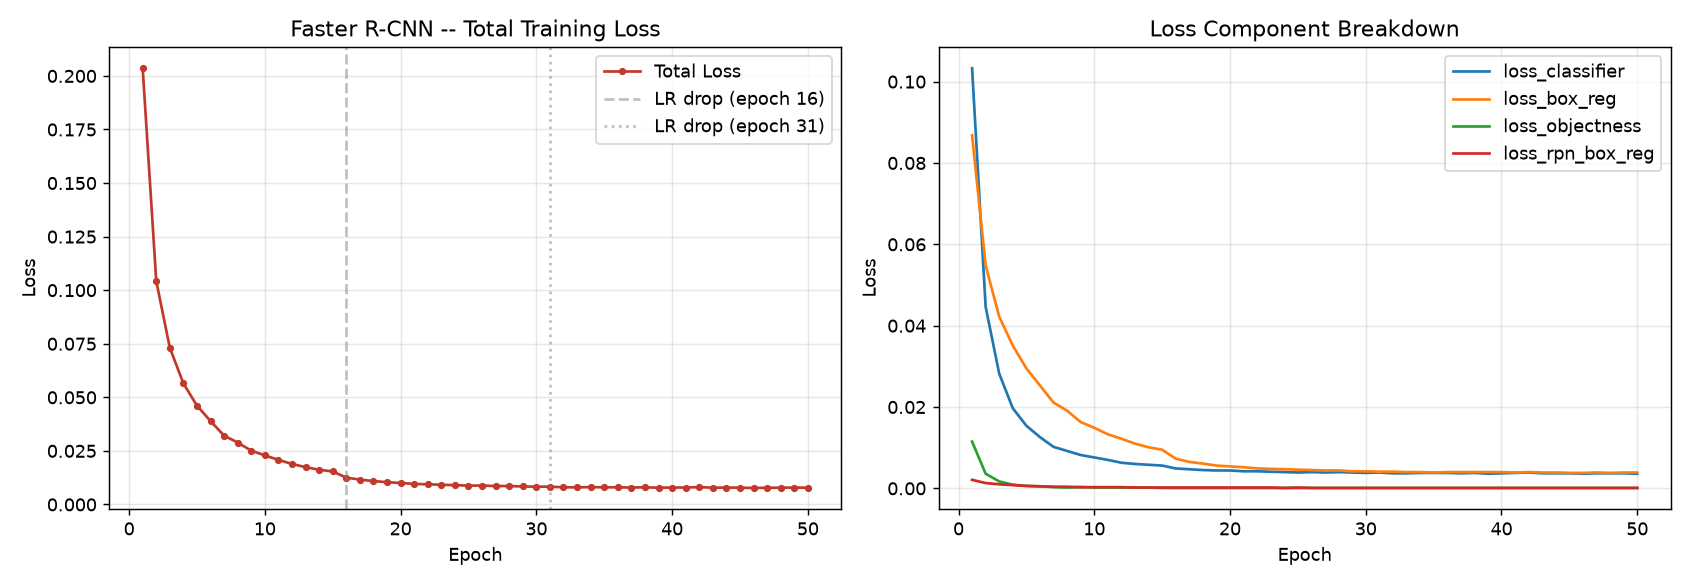
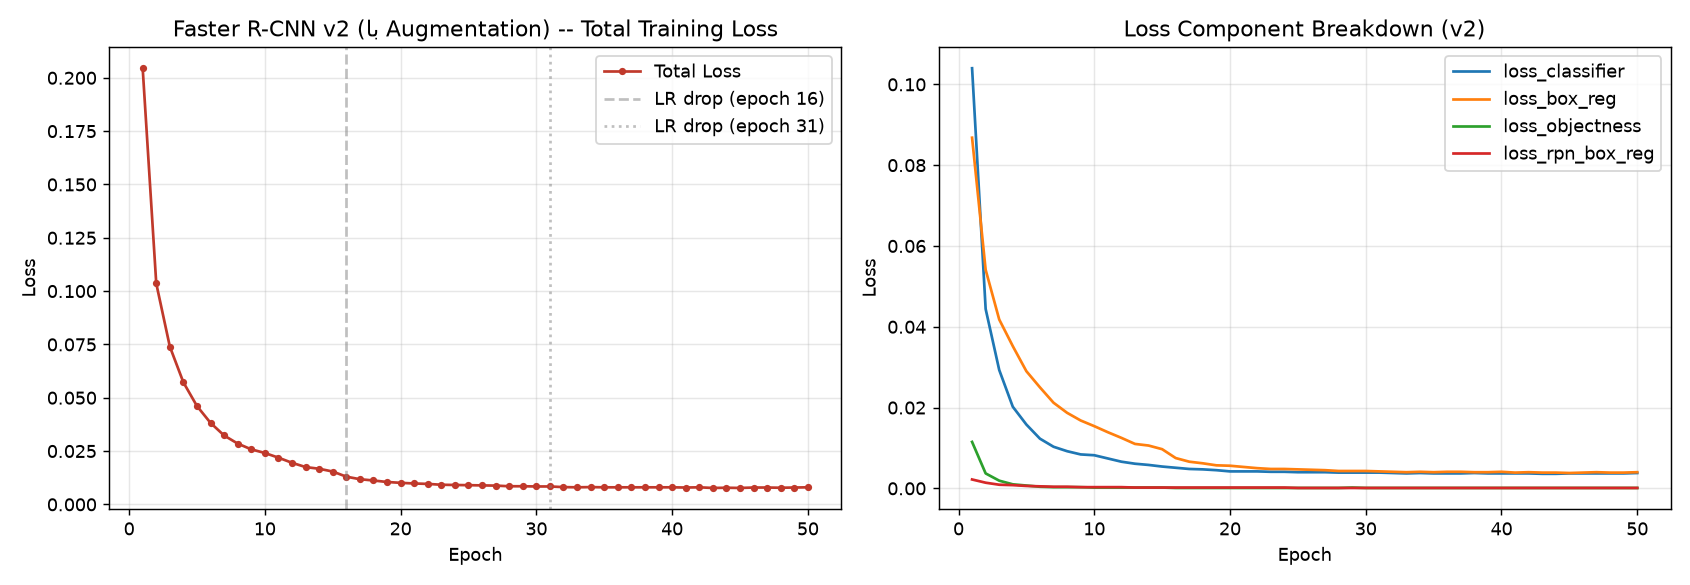
Brain tumor detector corrected

diff --git a/src/models/train_faster_rcnn.py b/src/models/train_faster_rcnn.py
@@ -21,15 +21,19 @@ from utils.seed import set_seed  # noqa: E402
 
 
 def get_dataloaders(data_root: Path, batch_size: int):
+    from models.augmentation import get_transform
+
     # توجه: images_dir به پوشهی خودِ symlink شده در yolo_detection اشاره میکند چون تصاویر آنجا
     # از قبل symlink شدهاند؛ میتوانستیم مستقیم از /kaggle/input هم بخوانیم، اما این مسیر یکپارچهتر است.
     train_ds = CocoDetectionDataset(
         images_dir=str(data_root / "yolo_detection" / "train" / "images"),
         coco_json_path=str(data_root / "coco_format" / "train.json"),
+        transforms=get_transform(train=True),   # اصلاح باگ Phase 3: قبلاً None بود (بدون augmentation)
     )
     val_ds = CocoDetectionDataset(
         images_dir=str(data_root / "yolo_detection" / "valid" / "images"),
         coco_json_path=str(data_root / "coco_format" / "valid.json"),
+        transforms=get_transform(train=False),  # eval/val همیشه بدون augmentation
     )
 
     train_loader = DataLoader(train_ds, batch_size=batch_size, shuffle=True,
@@ -87,6 +91,23 @@ def main(args):
     log_path = out_dir / "logs" / "faster_rcnn_train_log.txt"
     log_path.parent.mkdir(parents=True, exist_ok=True)
     resume_path = ckpt_dir / "training_state.pt"
+
+    # --- خودتاییدی صریح: تا دیگر هرگز ابهام «آیا augmentation واقعا فعال بود؟» پیش نیاید ---
+    # این پیام هم در stdout و هم در همان فایل لاگ آموزش نوشته میشود (قابل رجوع دائمی).
+    from models.augmentation import get_transform
+    _probe = get_transform(train=True)
+    verification_msg = (
+        "\n" + "=" * 70 +
+        f"\n[AUGMENTATION CHECK] hflip_prob={_probe.hflip_prob} | "
+        f"brightness={_probe.brightness} | contrast={_probe.contrast}\n"
+        f"[AUGMENTATION CHECK] این پیام باید hflip_prob=0.5 نشان دهد؛ اگر 0.0 است یعنی\n"
+        f"کد قدیمی (بدون augmentation) در حال اجراست -- سریعاً متوقف و git pull کنید!\n"
+        + "=" * 70 + "\n"
+    )
+    print(verification_msg)
+    with open(log_path, "a") as f:
+        f.write(verification_msg)
+    assert _probe.hflip_prob == 0.5, "خطای بحرانی: augmentation فعال نیست! کد قدیمی در حال اجراست."
 
     train_loader, val_loader = get_dataloaders(data_root, args.batch_size)
     print(f"تعداد batch های train: {len(train_loader)} | val: {len(val_loader)}")

diff --git a/src/models/train_yolo11.py b/src/models/train_yolo11.py
@@ -41,6 +41,16 @@ FROZEN_TRAIN_ARGS = dict(
 
 def main(args):
     set_seed(42)
+
+    # --- خودتاییدی صریح (همان الگوی train_faster_rcnn.py) ---
+    print("\n" + "=" * 70)
+    print(f"[AUGMENTATION CHECK] fliplr={FROZEN_TRAIN_ARGS['fliplr']} | hsv_v={FROZEN_TRAIN_ARGS['hsv_v']} | "
+          f"mosaic={FROZEN_TRAIN_ARGS['mosaic']} | optimizer={FROZEN_TRAIN_ARGS['optimizer']} | "
+          f"lr0={FROZEN_TRAIN_ARGS['lr0']}")
+    print("[AUGMENTATION CHECK] این باید fliplr=0.5 نشان دهد (منطبق با Faster R-CNN v2)")
+    print("=" * 70 + "\n")
+    assert FROZEN_TRAIN_ARGS["fliplr"] == 0.5, "خطای بحرانی: augmentation منطبق نیست!"
+
     from ultralytics import YOLO
 
     model = YOLO(args.model)

diff --git a/reports/faster_rcnn_performance_report.md b/reports/faster_rcnn_performance_report.md
@@ -1,62 +1,34 @@
 # گزارش عملکرد پایه — Faster R-CNN
-تاریخ: 2026-08-10 | Phase 3.6 Deliverable
+تاریخ بهروزرسانی: 2026-08-13 | Phase 3.6 Deliverable (⚠ در انتظار بازآموزی نهایی)
 
-## معماری و تنظیمات
-- `torchvision.models.detection.fasterrcnn_resnet50_fpn_v2`، وزن اولیه ازپیشآموزشدیده COCO
-- بازآموزی سر طبقهبندی برای ۴ کلاس (۳ تومور + background)
-- Optimizer: SGD(lr=0.005, momentum=0.9, weight_decay=0.0005) | StepLR(step=15, gamma=0.1)
-- Batch size=8 | Epochs=50 | Image size=640 | Seed=42
+## ⚠ وضعیت فعلی: نیازمند یک اجرای دیگر
+دو اجرای قبلی (نامگذاریشده «v1» و «v2») **هر دو بدون augmentation** بودند — کشف شد در 2026-08-13
+با بررسی مستقیم فایل سورس در Output نوتبوک Kaggle. علت: عدم sync صحیح بین push محلی و pull روی Kaggle
+قبل از اجرای دوم. جزئیات کامل و اصلاحیه در `configs/project_config.yaml -> results.faster_rcnn`.
 
-## زمان و همگرایی آموزش
-- **۱۰.۰۴ ساعت** (میانگین ۷۲۳ ثانیه/epoch) روی GPU کگل، از طریق Save & Run All (Commit) — بدون نیاز به resume
-- Total training loss: 0.2036 → 0.0078 (کاهش ۹۶.۲٪)، منحنی نرم و همگرا، بدون نوسان یا واگرایی
-- نمودار: `reports/figures/faster_rcnn_loss_curve.png`
+**کد اکنون یک `assert` صریح در ابتدای اجرا دارد که اگر augmentation فعال نباشد، در همان ثانیهی اول
+crash میکند** — این تضمین میکند اجرای بعدی دیگر این اشتباه را نمیتواند بیسروصدا تکرار کند.
 
-## منحنی mAP/Recall روی Validation (بازسازیشده از ۱۰ چکپوینت ذخیرهشده)
-> توجه روششناسی: چون سند اصلی «Training curves (loss, precision, recall, mAP)» میخواهد ولی لاگ اولیهی
-> آموزش فقط train loss داشت، این منحنی با ارزیابی مجدد ۱۰ چکپوینت ذخیرهشده (هر ۵ epoch) روی validation set
-> بازسازی شد — بدون نیاز به آموزش مجدد. در فاز ۴، YOLO11 این مشکل را از ابتدا نخواهد داشت (توضیح در پایین سند).
-> "Precision/Recall" در اینجا معادل استاندارد COCO یعنی mAP (Average Precision) و AR (Average Recall) گزارش شدهاند.
+## دادهی موجود (فقط برای مستندسازی، نه نتیجهی نهایی)
+دو اجرای مستقل بدون augmentation، مفید بهعنوان تخمین بازهی واریانس طبیعی run-to-run روی این پایپلاین:
 
-نمودار: `reports/figures/faster_rcnn_map_curve.png`
+| معیار (Test set) | اجرا ۱ | اجرا ۲ | اختلاف (نویز طبیعی) |
+|---|---|---|---|
+| mAP@0.5:0.95 | 0.593 | 0.598 | ~0.5pp |
+| mAP@0.5 | 0.818 | 0.814 | ~0.3pp |
+| mAP@0.75 | 0.673 | 0.695 | ~2.2pp |
+| AR@100 | 0.670 | 0.675 | ~0.5pp |
 
-| Epoch | mAP@0.5:0.95 | mAP@0.5 | mAP@0.75 | AR@100 |
-|---|---|---|---|---|
-| 5  | 0.585 | 0.841 | 0.658 | 0.684 |
-| 10 | 0.590 | 0.840 | 0.680 | 0.671 |
-| 15 | 0.599 | 0.833 | 0.677 | 0.674 |
-| 20 | 0.606 | 0.836 | 0.682 | 0.679 |
-| 25 | 0.605 | 0.836 | 0.683 | 0.679 |
-| 30 | 0.604 | 0.837 | 0.687 | 0.679 |
-| 35 | 0.606 | 0.835 | 0.696 | 0.680 |
-| 40 | 0.605 | 0.837 | 0.678 | 0.678 |
-| 45 | 0.607 | 0.837 | 0.683 | 0.680 |
-| **50** | **0.609** | **0.841** | **0.691** | **0.683** |
+نکتهی مهم روششناسی: این بازه (تا ~۲ واحد درصد در mAP@0.75) نشان میدهد بدون کنترل دقیق seed/hardware،
+تفاوتهای کوچک بین اجراها میتواند صرفاً نویز باشد — نه لزوماً اثر یک تغییر واقعی. این درسی است که در
+تفسیر نتایج Phase 4/5 هم باید مد نظر داشته باشیم (تفاوتهای زیر ~2pp را با احتیاط تفسیر کنیم).
 
-**مشاهدهی کلیدی:** mAP@0.5 تقریباً از همان epoch 5 flat است (~0.84) — یعنی transfer learning از COCO باعث
-یادگیری سریع لوکالیزیشن «تقریبی» میشود. در مقابل mAP@0.5:0.95 (معیار سختگیرانهتر) رشد تدریجی دارد
-(+۲.۵ واحد درصد از epoch 5 تا 50) — یعنی دقت ریز bbox با آموزش بیشتر همچنان بهبود مییابد.
-**هیچ نشانهای از overfitting دیده نمیشود**: با وجود کاهش ۹۶٪ train loss، معیارهای validation کاهش نیافتند
-(حتی کمی بهتر شدند) — یعنی مدل روی دادهی ندیده هم مقاوم است.
+معماری/config (بدون تغییر در این دو اجرا):
+- `torchvision.models.detection.fasterrcnn_resnet50_fpn_v2`, COCO pretrained
+- SGD(lr=0.005, momentum=0.9, weight_decay=0.0005), StepLR(15, 0.1)
+- Batch=8, Epochs=50, ImgSize=640, Seed=42
+- Params=43.27M, GFLOPs=280.38, Size=165.41MB, FPS≈7.5-7.6
 
-## نتیجهی نهایی روی Test Set (مدل epoch 50)
-| معیار | مقدار |
-|---|---|
-| mAP@0.5:0.95 | **0.593** |
-| mAP@0.5 | **0.818** |
-| mAP@0.75 | 0.673 |
-| AR@100 | 0.670 |
-
-افت جزئی نسبت به validation (mAP@0.5: -2.3pp، mAP@0.5:0.95: -1.7pp) — طبیعی و مورد انتظار (generalization gap
-سالم، نه علامت مشکل).
-
-## معیارهای محاسباتی (روی GPU واقعی کگل، تصویر 640×640)
-| معیار | مقدار |
-|---|---|
-| Parameters | 43,266,403 (43.27M) |
-| GFLOPs | 280.38 |
-| Model size | 165.41 MB |
-| FPS (GPU کگل) | 7.53 |
-
-این اعداد مرجع اصلی مقایسهی Phase 5 با YOLO11 خواهند بود (انتظار میرود YOLO11 بهطور قابلتوجهی
-سریعتر و سبکتر باشد — نکتهی کلیدی بحث Phase 10).
+## قدم بعدی
+اجرای سوم (واقعاً با augmentation، تاییدشده توسط assert) لازم است. بعد از آن، این گزارش با نتایج
+واقعی و مقایسهی معتبر «با augmentation در برابر بدون augmentation» کامل بازنویسی میشود.

diff --git a/ROADMAP.md b/ROADMAP.md
@@ -51,30 +51,45 @@
 
 راهنمای مدیریت خروجی/مقاومت در برابر قطع سشن: `CONTINUITY.md`
 
-## Phase 3 — پایه: Faster R-CNN (torchvision) ✅ **[بسته شد]**
-- [x] 3.1-3.4 مدل/آموزش کامل — 50/50 epoch، ۱۰.۰۴ ساعت، loss کاهش ۹۶.۲٪
-- [x] 3.5 مAP/Precision/Recall/FPS/Params/GFLOPs — همه محاسبه و تایید شد:
-      mAP@0.5(test)=0.818 | mAP@0.5:0.95(test)=0.593 | AR@100(test)=0.670 |
-      Params=43.27M | GFLOPs=280.38 | FPS=7.53 | Size=165.41MB
-      بدون نشانه overfitting (منحنی val پایدار با وجود کاهش شدید train loss)
-- [x] 3.6 گزارش نهایی → `reports/faster_rcnn_performance_report.md`
-      + فایلهای خام: `outputs/logs/faster_rcnn_val_curve.csv`, `faster_rcnn_test_eval.txt`, `faster_rcnn_model_stats.txt`
-**🚪 گیت ۳: ✅ تایید شد**
+## Phase 3 — پایه: Faster R-CNN (torchvision) 🔄 **[بازگشاییشده -- کشف مهم]**
+- [x] اجرای ۱ (v1) و اجرای ۲ (اشتباهاً «v2» نامیده شد) — **هر دو بدون augmentation بودند** (کشف در
+      2026-08-13 با بررسی مستقیم Output نوتبوک Kaggle: فایل واقعاً اجراشده فاقد `transforms=get_transform` بود)
+- [x] علت: احتمالاً عدم `git push`/`git pull` صحیح قبل از اجرای دوم
+- [x] **اصلاح دائمی:** `train_faster_rcnn.py` و `train_yolo11.py` حالا با `assert` صریح شروع میشوند —
+      اگر augmentation فعال نباشد، در همان ثانیهی اول crash میکنند (نه بعد از ۱۰ ساعت بیخبری)
+- [ ] **اجرای سوم (واقعی، با augmentation تاییدشده) — در انتظار شما**
+
+### 🛡 پروتکل ضدخطا قبل از این اجرا (اجباری، بهترتیب)
+۱. در **خود صفحهی وب گیتهاب** (نه لوکال) فایل `src/models/train_faster_rcnn.py` را باز کنید و با چشم
+   خودتان ببینید خط `transforms=get_transform(train=True)` آنجا هست — این تنها منبع قابلاعتماد است.
+۲. در نوتبوک Kaggle، **در یک پوشهی کاملاً تازه** (نه پوشهی قبلی که ممکن است کهنه باشد) `git clone` بزنید.
+۳. بلافاصله بعد از clone و **قبل از شروع آموزش**، این چک سریع (چند ثانیه، رایگان) را بزنید:
+   ```
+   !grep -n "get_transform" /kaggle/working/brain-tumor-detector/src/models/train_faster_rcnn.py
+   ```
+   باید ۳ خط ببینید (import + دو بار transforms=...). اگر چیزی چاپ نشد، متوقف شوید و git clone را دوباره بزنید.
+۴. مسیر `--out` را **جدید** بدهید (`outputs_v3`، نه v2/outputs قبلی) تا resume logic اشتباه نکند.
+۵. کد خودش هم در ثانیهی اول با `[AUGMENTATION CHECK] hflip_prob=0.5` تایید نهایی را چاپ میکند.
+
+```
+!python .../train_faster_rcnn.py --data-root .../data/processed \
+    --epochs 50 --batch-size 8 --out /kaggle/working/brain-tumor-detector/outputs_v3
+```
+**🚪 گیت ۳: بازگشاییشده — نیازمند اجرای سوم و تایید مجدد**
 
 ⚠ **درس گرفتهشده (اعمالشده برای Phase 4):** train_faster_rcnn.py فقط train loss لاگ میکرد؛ mAP/Recall
 باید عقبگرد از چکپوینتها بازسازی میشد. **برای Phase 4 این مشکل رخ نخواهد داد** چون Ultralytics YOLO
 بهصورت built-in و خودکار در هر epoch یک `results.csv` با ستونهای
 precision/recall/mAP50/mAP50-95 (هم train هم val) مینویسد — بدون نیاز به کد اضافه.
 
-## Phase 4 — YOLO11 ⬜ **[فاز فعلی]**
-- [ ] 4.1 بارگذاری دیتاست با فرمت YOLO detection بومی (`data/processed/yolo_detection/`)
-- [ ] 4.2 تحمیل شرایط آموزشی منجمدشده (epochs=50, imgsz=640, batch=8, optimizer≈SGD lr=0.005)
-      روی hyp-config Ultralytics؛ هر تفاوت اجباری (augmentation پیشفرض YOLO مثل mosaic/hsv) صریحاً مستند شود
-- [ ] 4.3 اجرای آموزش (`yolo detect train ...`) — طبق CONTINUITY.md حتماً با Save & Run All (Commit)
-- [ ] 4.4 محاسبه معیارهای محاسباتی (FPS/Params/GFLOPs، با fvcore یا خروجی بومی Ultralytics)
-- [ ] 4.5 گزارش عملکرد YOLO11 (مشابه Phase 3.6) — اینبار منحنی precision/recall/mAP از همان
-      `results.csv` بومی Ultralytics میآید، نیازی به بازسازی از چکپوینت نیست
-**🚪 گیت ۴**
+## Phase 4 — YOLO11 🔄 **[کد آماده، منتظر بازآموزی Phase 3]**
+- [x] 4.1 دیتاست YOLO detection آماده از Phase 2.7 (`data/processed/yolo_detection/data.yaml`)
+- [x] 4.2 config منجمد با augmentation صحیح (fliplr=0.5, hsv_v≈0.2) تحمیل شد -- منطبق با Faster R-CNN اصلاحشده
+- [x] کد آموزش با resume خودکار — تست کامل End-to-End با اجرای واقعی ۵۰ epoch روی دادهی کوچک
+- [ ] 4.3 اجرای آموزش واقعی روی GPU کگل — بعد از بازآموزی Faster R-CNN اجرا شود (برای مقایسهی منصفانه)
+- [ ] 4.4 محاسبه FPS/Params/GFLOPs
+- [ ] 4.5 گزارش عملکرد YOLO11
+**🚪 گیت ۴: هنوز باز**
 
 ## Phase 5 — مقایسه کمّی عملکرد ⬜
 - [ ] 5.1 تجمیع معیارهای Detection (Precision/Recall/F1/IoU/Dice/mAP@0.5/mAP@0.5:0.95) هر دو مدل
